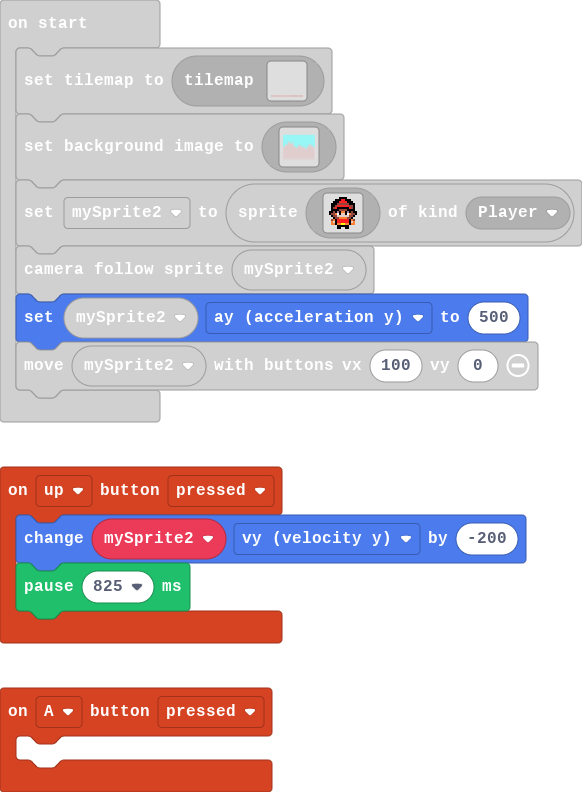
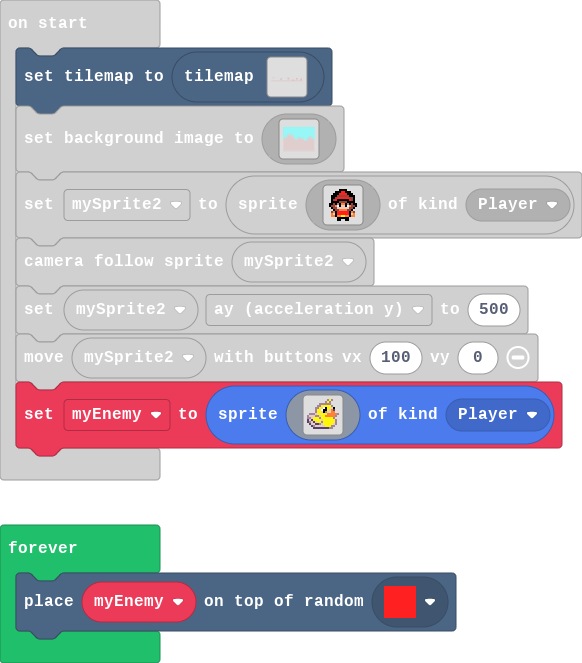
Update pxt.json, main.blocks, main.ts, tilemap.g.jres, tilemap.g.ts

diff --git a/tilemap.g.ts b/tilemap.g.ts
@@ -2,28 +2,72 @@
 namespace myTiles {
     //% fixedInstance jres blockIdentity=images._tile
     export const transparency16 = image.ofBuffer(hex``);
+    //% fixedInstance jres blockIdentity=images._tile
+    export const tile1 = image.ofBuffer(hex``);
+    //% fixedInstance jres blockIdentity=images._tile
+    export const tile2 = image.ofBuffer(hex``);
+    //% fixedInstance jres blockIdentity=images._tile
+    export const tile3 = image.ofBuffer(hex``);
 
     helpers._registerFactory("tilemap", function(name: string) {
         switch(helpers.stringTrim(name)) {
+            case "level2":
+            case "level2":return tiles.createTilemap(hex`1000100000000000000000000000000000000000000000000000000000000000000000000000000000000000000000000000000000000000000000000000000000000000000000000000000000000000000000000000000000000000000000000000000000000000000000000000000000000000000000000000000000000000000000000000000000000000000000000000000000000000000000000000000000000000000000000000000000000000000000000000000000000000000000000000000000000000000000000000000000000000000000000000000000000000000000000000000000000000000000000000000000000000000000000000000000000000`, img`
+. . . . . . . . . . . . . . . . 
+. . . . . . . . . . . . . . . . 
+. . . . . . . . . . . . . . . . 
+. . . . . . . . . . . . . . . . 
+. . . . . . . . . . . . . . . . 
+. . . . . . . . . . . . . . . . 
+. . . . . . . . . . . . . . . . 
+. . . . . . . . . . . . . . . . 
+. . . . . . . . . . . . . . . . 
+. . . . . . . . . . . . . . . . 
+. . . . . . . . . . . . . . . . 
+. . . . . . . . . . . . . . . . 
+. . . . . . . . . . . . . . . . 
+. . . . . . . . . . . . . . . . 
+. . . . . . . . . . . . . . . . 
+. . . . . . . . . . . . . . . . 
+`, [myTiles.transparency16], TileScale.Sixteen);
             case "level1":
-            case "level1":return tiles.createTilemap(hex`1000100000000000000000000000000000000000000000000000000000000000000000000000000000000000000000000000000000000000000000000000000000000000000000000000000000000000000000000000000000000000000000000000000000000000000000000000000000000000000000000000000000000000000000000000000000000000000000000000000000000000000000000000000000000000000000000000000000000000000000000000000000000000000000000000000000000000000000000000000000000000000000000000000000000000000000000000000000000000000000000000000002010101010101010101020202010102`, img`
-2 2 2 2 2 2 2 2 2 2 2 2 2 2 2 2 
-2 2 2 2 2 2 2 2 2 2 2 2 2 2 2 2 
-2 2 . . . . . . . . . . . . . 2 
-2 2 . . . . . . . . . . . . . 2 
-2 2 . . . . . . . . . . . . . 2 
-2 2 . . . . . . . . . . . . . 2 
-2 2 . . . . . . . . . . . . . 2 
-2 2 . . . . . . . . . . . . . 2 
-2 2 . . . . . . . . . . . . . 2 
-2 2 . . . . . . . . . . . . . 2 
-2 2 . . . . . . . . . . . . . 2 
-2 2 . . . . . . . . . . . . . 2 
-2 2 . . . . . . . . . . . . . 2 
-2 2 . . . . . . . . . . . . . 2 
-2 2 . . . . . . . . . . . . . 2 
-2 2 2 2 2 2 2 2 2 2 2 2 2 2 2 2 
-`, [myTiles.transparency16,sprites.dungeon.floorLight0,sprites.dungeon.floorLight1], TileScale.Sixteen);
+            case "level1":return tiles.createTilemap(hex`4000100000000000000000000000000000000000000000000000000000000000000000000000000000000000000000000000000000000000000000000000000000000000000000000000000000000000000000000000000000000000000000000000000000000000000000000000000000000000000000000000000000000000000000000000000000000000000000000000000000000000000000000000000000000000000000000000000000000000000000000000000000000000000000000000000000000000000000000000000000000000000000000000000000000000000000000000000000000000000000000000000000000000000000000000000000000000000000000000000000000000000000000000000000000000000000000000000000000000000000000000000000000000000000000000000000000000000000000000000000000000000000000000000000000000000000000000000000000000000000000000000000000000000000000000000000000000000000000000000000000000000000000000000000000000000000000000000000000000000000000000000000000000000000000000000000000000000000000000000000000000000000000000000000000000000000000000000000000000000000000000000000000000000000000000000000000000000000000000000000000000000000000000000000000000000000000000000000000000000000000000000000000000000000000000000000000000000000000000000000000000000000000000000000000000030303000000000000000000000000000000000000000000000000000000000000000000000000000000000000000000000000000000000000000000000000030000000000000000000000000000000000000000000000000000000000000400000000000000000000000000000000000000000000000000000300000000000000000000000000000000000000000000040000000000000000000000000000000000000000000000000000000000000400000000000003030300000000000000000000000000000000000000000000000000000000000000000000000003030303000000000000000000000000000000000000000000000000000000000000000000000000000000000000000000030303030000000000000000000000000000000000000000000000000000000000030300000000000000040000000000000000000000000000000000000000000000000000000000000000000000000000000000000000000000040000000000000000030000000000000000000002010101010101010101020202010101010101010101010101010101010101010101010101010101010101010101010101010101010101010101010101010101`, img`
+2222222222222222222222222222222222222222222222222222222222222222
+2..............................................................2
+2..............................................................2
+2..............................................................2
+2..............................................................2
+2..............................................................2
+2..............................................................2
+2..............................................................2
+2..............................................................2
+2...222........................................................2
+2..2.........................................................2.2
+2.........................................................222..2
+2................................2222..........................2
+2.................2222.............................22..........2
+2....................................................2.........2
+2222222222222222222222222222222222222222222222222222222222222222
+`, [myTiles.transparency16,sprites.dungeon.floorLight0,sprites.dungeon.floorLight1,sprites.dungeon.floorLight4,myTiles.tile1], TileScale.Sixteen);
+            case "level3":
+            case "level3":return tiles.createTilemap(hex`1000100000000000000000000000000000000000000000000000000000000000000000000000000000000000000000000000000000000000000000000000000000000000000000000000000000000000000000000000000000000000000000000000000000000000000000000000000000000000000000000000000000000000000000000000000000000000000000000000000000000000000000000000000000000000000000000000000000000000000000000000000000000000000000000000000000000000000000000000000000000000000000000000000000000000000000000000000000000000000000000000000000000000000000000000000000000000`, img`
+. . . . . . . . . . . . . . . . 
+. . . . . . . . . . . . . . . . 
+. . . . . . . . . . . . . . . . 
+. . . . . . . . . . . . . . . . 
+. . . . . . . . . . . . . . . . 
+. . . . . . . . . . . . . . . . 
+. . . . . . . . . . . . . . . . 
+. . . . . . . . . . . . . . . . 
+. . . . . . . . . . . . . . . . 
+. . . . . . . . . . . . . . . . 
+. . . . . . . . . . . . . . . . 
+. . . . . . . . . . . . . . . . 
+. . . . . . . . . . . . . . . . 
+. . . . . . . . . . . . . . . . 
+. . . . . . . . . . . . . . . . 
+. . . . . . . . . . . . . . . . 
+`, [myTiles.transparency16], TileScale.Sixteen);
         }
         return null;
     })
@@ -31,6 +75,12 @@ namespace myTiles {
     helpers._registerFactory("tile", function(name: string) {
         switch(helpers.stringTrim(name)) {
             case "transparency16":return transparency16;
+            case "roach":
+            case "tile1":return tile1;
+            case "myTile":
+            case "tile2":return tile2;
+            case "possum":
+            case "tile3":return tile3;
         }
         return null;
     })

diff --git a/main.ts b/main.ts
@@ -150,3 +150,24 @@ mySprite2 = sprites.create(img`
 scene.cameraFollowSprite(mySprite2)
 mySprite2.ay = 500
 controller.moveSprite(mySprite2, 100, 0)
+let myEnemy = sprites.create(img`
+    . . . . . . . . . . b 5 b . . . 
+    . . . . . . . . . b 5 b . . . . 
+    . . . . . . b b b b b b . . . . 
+    . . . . . b b 5 5 5 5 5 b . . . 
+    . . . . b b 5 d 1 f 5 5 d f . . 
+    . . . . b 5 5 1 f f 5 d 4 c . . 
+    . . . . b 5 5 d f b d d 4 4 . . 
+    . b b b d 5 5 5 5 5 4 4 4 4 4 b 
+    b d d d b b d 5 5 4 4 4 4 4 b . 
+    b b d 5 5 5 b 5 5 5 5 5 5 b . . 
+    c d c 5 5 5 5 d 5 5 5 5 5 5 b . 
+    c b d c d 5 5 b 5 5 5 5 5 5 b . 
+    . c d d c c b d 5 5 5 5 5 d b . 
+    . . c b d d d d d 5 5 5 b b . . 
+    . . . c c c c c c c c b b . . . 
+    . . . . . . . . . . . . . . . . 
+    `, SpriteKind.Player)
+forever(function () {
+    tiles.placeOnRandomTile(myEnemy, assets.tile`roach`)
+})
